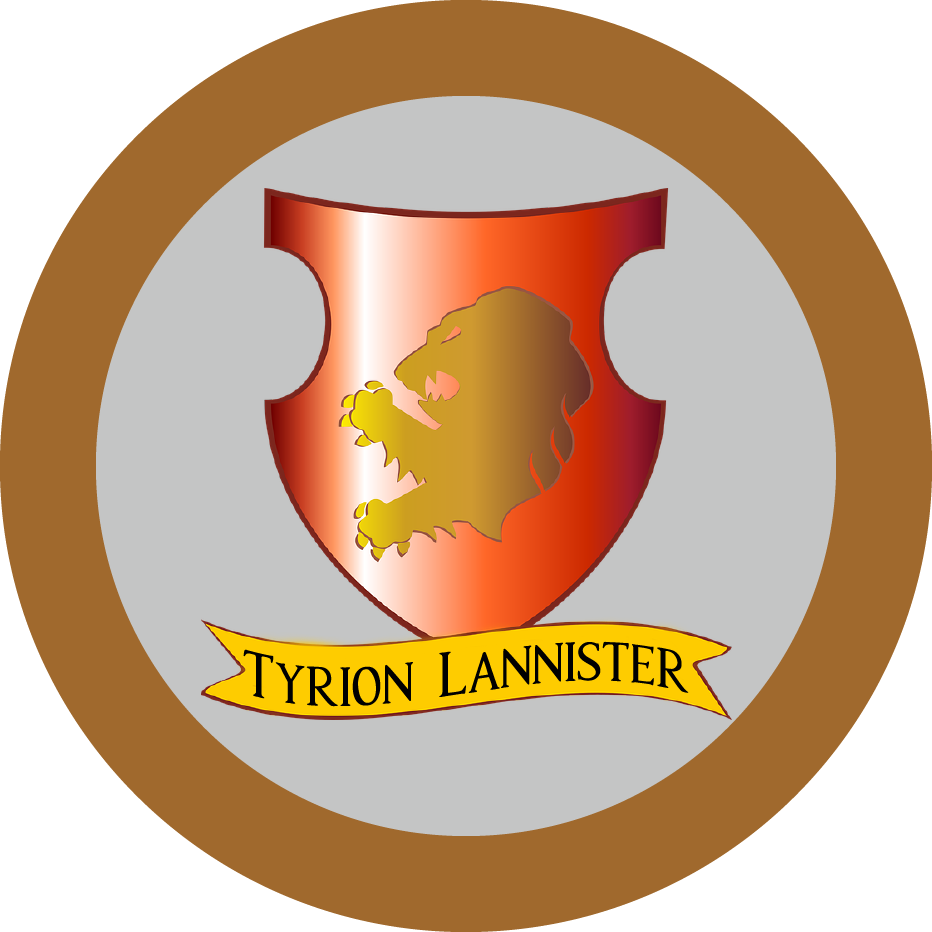
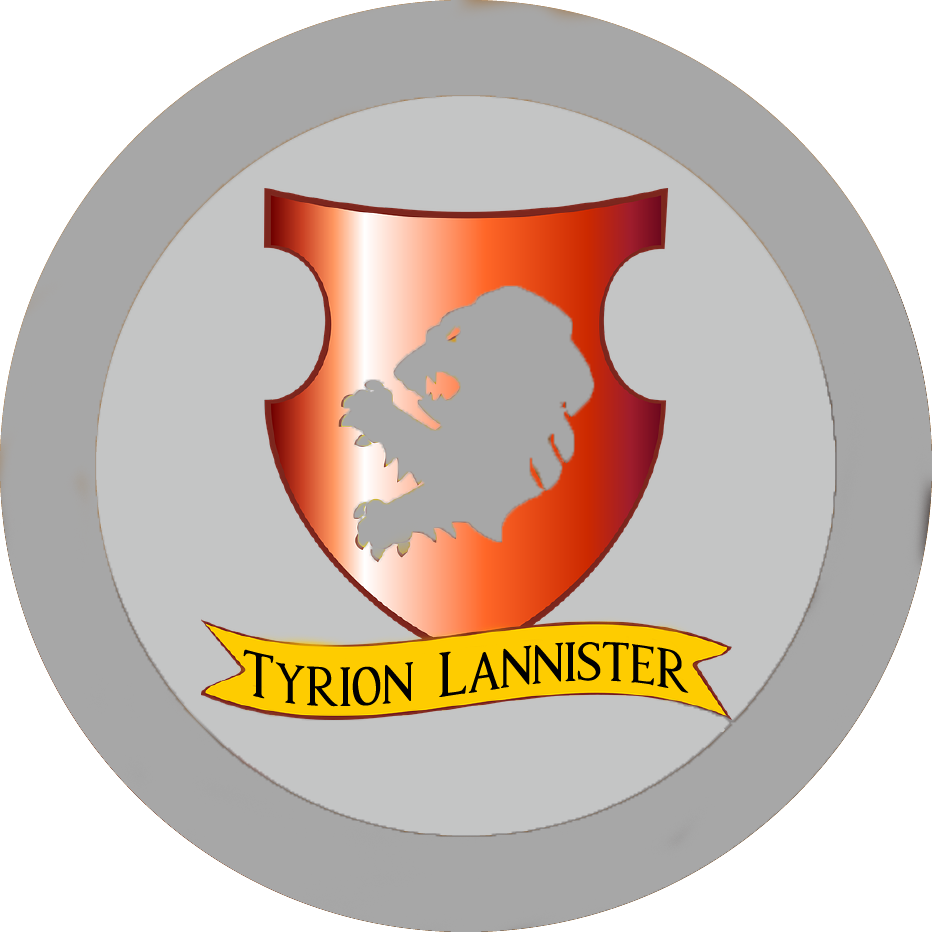
created board tokens and changed color for character tokens

diff --git a/styles/styles.css b/styles/styles.css
@@ -31,10 +31,10 @@ main {
 
 /************ Character Tokens ***************/
 #select_character {
-  background-image: url(../images/Background/wolf-1341881_1280.jpg);
-  background-size: cover;
-  background-repeat: no-repeat;
+  background-image: url(../images/Background/index_backgrImg.jpg);
   background-position: center;
+  background-repeat: no-repeat;
+  background-size: cover;
 }
 
 .characters {
@@ -67,8 +67,8 @@ main {
   margin: 25px 50px;
   background-color: rgba(0, 0, 0, 0.8);
   background-position: center;
-  background-size: cover;
   background-repeat: no-repeat;
+  background-size: cover;
   border: 1px solid black;
   border-radius: 5px;
   font-size: 4vw;
@@ -147,11 +147,11 @@ input[type=radio]:checked + .glow {
 
 /************ Game Board ***************/
 #gameBoard {
-  background-image: url(../images/Background/mandala-1874410_1280.png);
-  background-repeat: no-repeat;
-  background-position: center;
-  background-size: cover;
+  background-image: url(../images/Background/board_backgrImg_v2.png);
   background-attachment: fixed;
+  background-position: center;
+  background-repeat: no-repeat;
+  background-size: cover;
 }
 #gameBoard .box {
   background-color: rgba(0, 0, 0, 0.9);
@@ -351,6 +351,69 @@ input[type=radio]:checked + .glow {
 
 .arya-stark {
   background-image: url(../images/Tokens/arya_stark_token.png);
+  background-size: 200px 200px;
+  background-repeat: no-repeat;
+  background-position: center;
+}
+
+.sansa-stark {
+  background-image: url(../images/Tokens/sansa_stark_token.png);
+  background-size: 200px 200px;
+  background-repeat: no-repeat;
+  background-position: center;
+}
+
+.eddard-stark {
+  background-image: url(../images/Tokens/eddard_stark_token.png);
+  background-size: 200px 200px;
+  background-repeat: no-repeat;
+  background-position: center;
+}
+
+.jon-snow {
+  background-image: url(../images/Tokens/jon_snow_token.png);
+  background-size: 200px 200px;
+  background-repeat: no-repeat;
+  background-position: center;
+}
+
+.jaime-lannister {
+  background-image: url(../images/Tokens/jamie_lannister_token.png);
+  background-size: 200px 200px;
+  background-repeat: no-repeat;
+  background-position: center;
+}
+
+.tyrion-lannister {
+  background-image: url(../images/Tokens/tyrion_lannister_token.png);
+  background-size: 200px 200px;
+  background-repeat: no-repeat;
+  background-position: center;
+}
+
+.joffrey-baratheon {
+  background-image: url(../images/Tokens/joffrey_baratheon_token.png);
+  background-size: 200px 200px;
+  background-repeat: no-repeat;
+  background-position: center;
+}
+
+.robert-baratheon {
+  background-image: url(../images/Tokens/robert_baratheon_token.png);
+  background-size: 200px 200px;
+  background-repeat: no-repeat;
+  background-position: center;
+}
+
+.daenerys-targaryen {
+  background-image: url(../images/Tokens/daenerys_targaryen_token.png);
+  background-size: 200px 200px;
+  background-repeat: no-repeat;
+  background-position: center;
+}
+
+.theon-greyjoy {
+  background-image: url(../images/Tokens/theon_greyjoy_token.png);
   background-size: 200px 200px;
   background-repeat: no-repeat;
   background-position: center;

diff --git a/styles/_mixins.scss b/styles/_mixins.scss
@@ -1,14 +1,79 @@
 @import "variables"; 
 
+@mixin backgrImg () {
+    
+    background-position: center;
+    background-repeat: no-repeat;
+    background-size: cover;
+}
+
+@mixin tokenImg () {
+    
+    background-size: 200px 200px;
+    background-repeat: no-repeat;
+    background-position: center;  
+}
+
 @mixin characterToken () {
     
     .arya-stark {
         
         background-image: $arya_stark;
-        background-size: 200px 200px;
-        background-repeat: no-repeat;
-        background-position: center;
+        @include tokenImg();
+    }
+    
+    .sansa-stark {
         
+        background-image: $sansa_stark;
+        @include tokenImg();
+    }
+    
+    .eddard-stark {
+        
+        background-image: $eddard_stark;
+        @include tokenImg();
+    }
+    
+    .jon-snow {
+        
+        background-image: $jon_snow;
+        @include tokenImg();
+    }
+    
+    .jaime-lannister {
+        
+        background-image: $jaime_lannister;
+        @include tokenImg();
+    }
+    
+    .tyrion-lannister {
+        
+        background-image: $tyrion_lannister;
+        @include tokenImg();
+    }
+    
+    .joffrey-baratheon {
+        
+        background-image: $joffrey_bara;
+        @include tokenImg();
+    }
+    
+    .robert-baratheon {
+        
+        background-image: $robert_bara;
+        @include tokenImg();
+    }
+    
+    .daenerys-targaryen{
+        
+        background-image: $daenny_targ;
+        @include tokenImg();
+    }
+    
+    .theon-greyjoy {
+        
+        background-image: $theon_grey;
+        @include tokenImg();
     }
 }
 
@@ -20,9 +85,7 @@
         border: 3px solid $white;
         font-family: $dutch-mediaeval-pro;
         font-weight: 400;
-        background-position: center;
-        background-repeat: no-repeat;
-        background-size: cover;
+        @include backgrImg ();
     }
     
     #tile0 {

diff --git a/styles/_main.scss b/styles/_main.scss
@@ -4,11 +4,9 @@
 /************ Character Tokens ***************/
 #select_character {
             
-    background-image: url(../images/Background/wolf-1341881_1280.jpg);
-    background-size: cover;
-    background-repeat: no-repeat;
-    background-position: center;
-}
+    background-image: url(../images/Background/index_backgrImg.jpg);
+    @include backgrImg ();
+}    
 
 .characters {
 
@@ -49,9 +47,7 @@
     padding: 30px;
     margin: 25px 50px;
     background-color: rgba(0, 0, 0, 0.8);
-    background-position: center;
-    background-size: cover;
-    background-repeat: no-repeat;
+    @include backgrImg ();
     border: 1px solid black;
     border-radius: 5px;
     font-size: 4vw;
@@ -148,12 +144,10 @@ input[type=radio]:checked + .glow {
 #gameBoard {
     
    background-image: 
-        url(../images/Background/mandala-1874410_1280.png);
-    background-repeat: no-repeat;
-    background-position: center;
-    background-size: cover;
+        url(../images/Background/board_backgrImg_v2.png);
     background-attachment: fixed;
     @include gameBoard();
+    @include backgrImg ()
     
 }
 

diff --git a/styles/_variables.scss b/styles/_variables.scss
@@ -20,3 +20,12 @@ $crown: url(../images/Icons/1x/crown.png);
 
 //characterTokens
 $arya_stark: url(../images/Tokens/arya_stark_token.png);
+$eddard_stark: url(../images/Tokens/eddard_stark_token.png);
+$sansa_stark: url(../images/Tokens/sansa_stark_token.png);
+$jon_snow: url(../images/Tokens/jon_snow_token.png);
+$daenny_targ: url(../images/Tokens/daenerys_targaryen_token.png);
+$jaime_lannister: url(../images/Tokens/jamie_lannister_token.png);
+$tyrion_lannister: url(../images/Tokens/tyrion_lannister_token.png);
+$joffrey_bara: url(../images/Tokens/joffrey_baratheon_token.png);
+$robert_bara: url(../images/Tokens/robert_baratheon_token.png);
+$theon_grey: url(../images/Tokens/theon_greyjoy_token.png);
